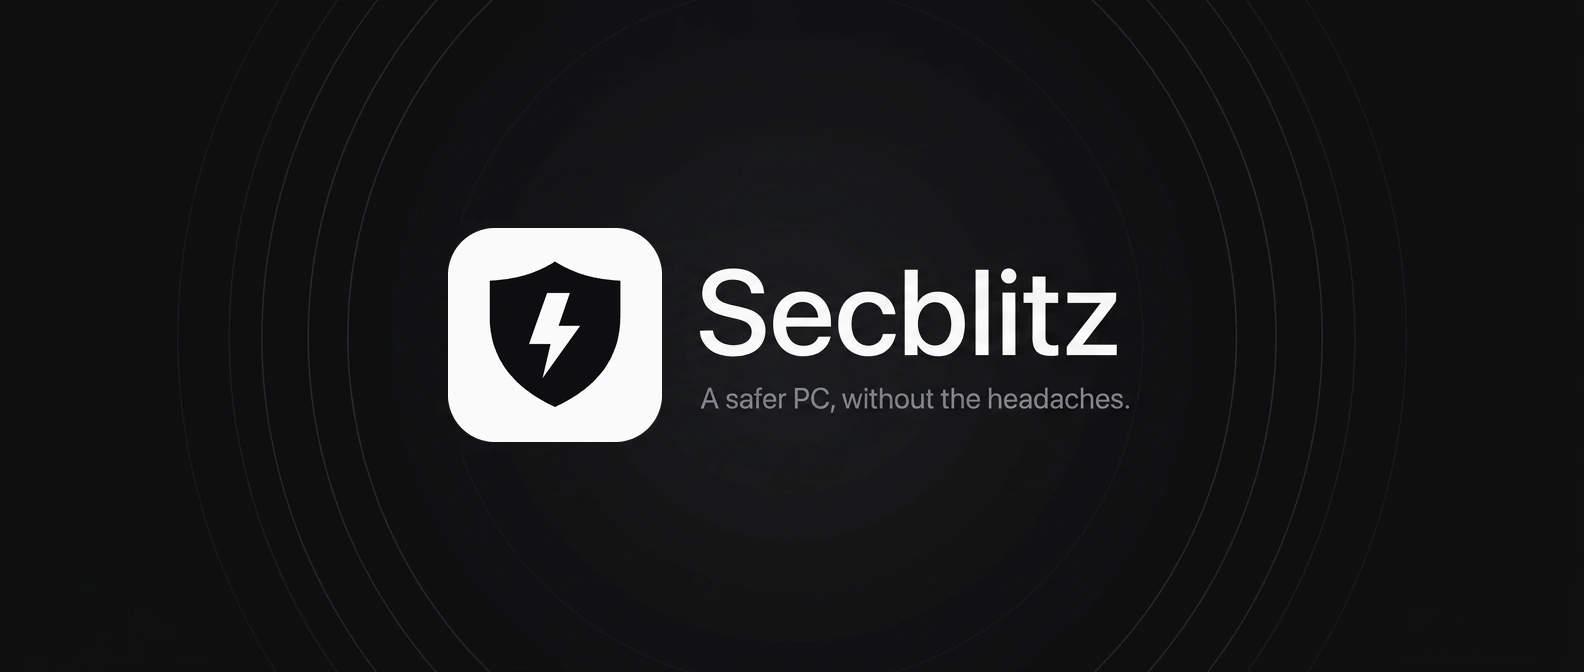
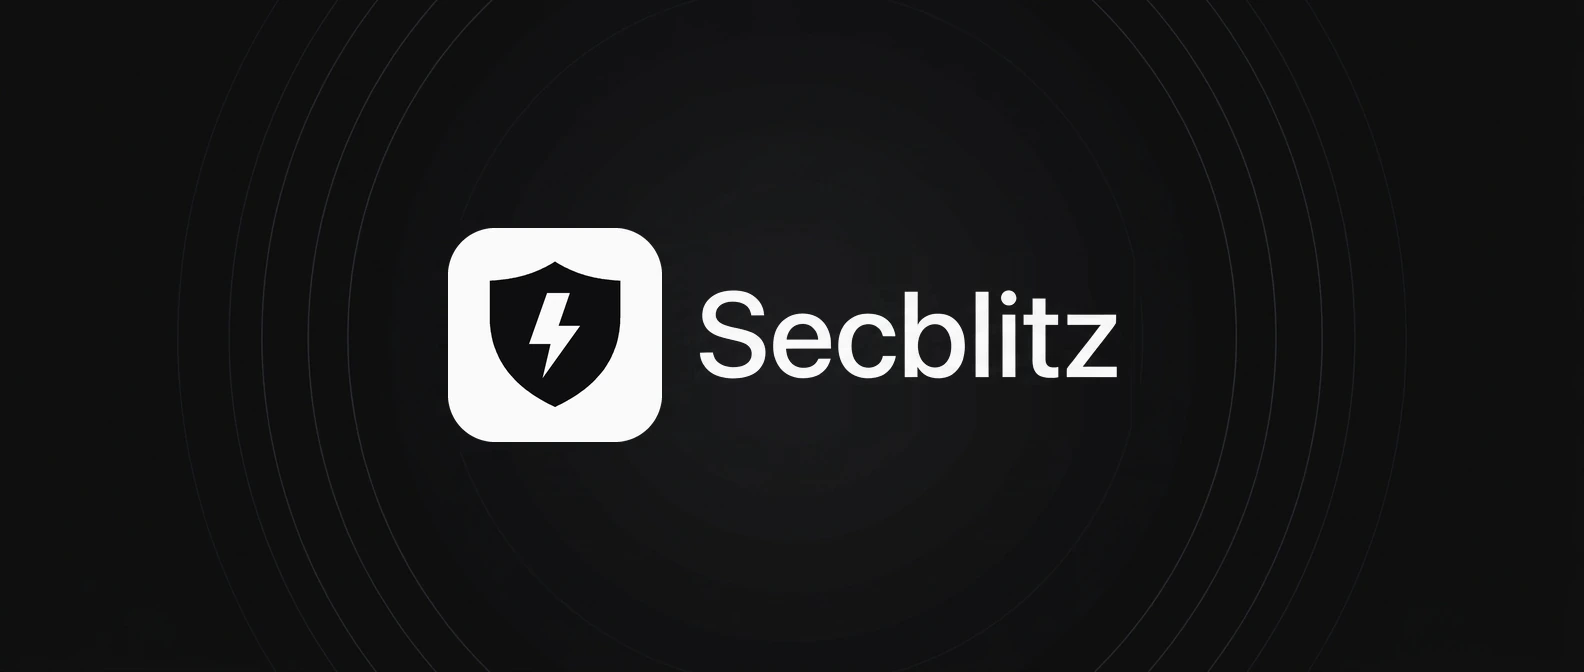
Rewrite the README and website copy to be short and direct, with security and contributing in their own files

Changed region(s): [[0.4331, 0.4062, 0.7115, 0.625]]

diff --git a/website/index.html b/website/index.html
@@ -6,13 +6,13 @@
   <meta name="theme-color" content="#F7F7F8" media="(prefers-color-scheme: light)">
   <meta name="theme-color" content="#0E0E10" media="(prefers-color-scheme: dark)">
   <meta name="color-scheme" content="light dark">
-  <meta name="description" content="Secblitz is one app that keeps your Windows PC secure, private and clean. It checks your PC, tells you what it finds and fixes only what you approve. Free, with no account.">
-  <title>Secblitz: security, privacy and cleanup for your PC</title>
+  <meta name="description" content="Secblitz checks the security, privacy and cleanup settings on your Windows PC and fixes the ones you approve. Every change can be undone. Free and open source.">
+  <title>Secblitz: security, privacy and cleanup for Windows</title>
   <link rel="canonical" href="https://secblitz.lol/">
   <meta property="og:type" content="website">
   <meta property="og:site_name" content="Secblitz">
-  <meta property="og:title" content="Secblitz: security, privacy and cleanup for your PC">
-  <meta property="og:description" content="One app that keeps your Windows PC secure, private and clean. No technical knowledge needed.">
+  <meta property="og:title" content="Secblitz: security, privacy and cleanup for Windows">
+  <meta property="og:description" content="Secblitz checks the security, privacy and cleanup settings on your Windows PC and fixes the ones you approve. Every change can be undone. Free and open source.">
   <meta property="og:url" content="https://secblitz.lol/">
   <meta property="og:image" content="https://secblitz.lol/assets/preview-92912b03eb97.webp">
   <meta property="og:image:alt" content="The Secblitz home screen">
@@ -84,8 +84,8 @@
   <main id="main">
     <section class="hero" aria-labelledby="hero-title">
       <div class="wrap hero-copy">
-        <h1 id="hero-title">A safer PC,<br>without the headaches.</h1>
-        <p class="lead">Security, privacy and cleanup for Windows, all in one app. Secblitz checks your PC, tells you what needs fixing and why, and fixes it when you say yes. No technical knowledge needed.</p>
+        <h1 id="hero-title">Security, privacy and cleanup for Windows.</h1>
+        <p class="lead">Secblitz checks your PC, shows what needs fixing and why, and fixes the items you approve. Every change can be undone.</p>
         <div class="cta">
           <a class="button" href="downloads/secblitz-0.8.2-windows-x64-setup.exe" download>
             <svg class="icon" aria-hidden="true"><use href="#i-download"/></svg>Download for Windows
@@ -104,17 +104,16 @@
 
     <section class="facts wrap" aria-label="Why people trust it">
       <ul class="fact-list">
-        <li><svg class="icon" aria-hidden="true"><use href="#i-shield-check"/></svg><span><strong>You stay in control.</strong> Secblitz never changes anything without asking you first.</span></li>
-        <li><svg class="icon" aria-hidden="true"><use href="#i-undo"/></svg><span><strong>Every change can be undone.</strong> Your original settings are saved before anything changes.</span></li>
-        <li><svg class="icon" aria-hidden="true"><use href="#i-eye-off"/></svg><span><strong>Your data stays on your PC.</strong> No account, no ads and no tracking.</span></li>
-        <li><svg class="icon" aria-hidden="true"><use href="#i-check-circle"/></svg><span><strong>Built on Windows protection.</strong> It turns on the security Windows already has, instead of replacing it.</span></li>
+        <li><svg class="icon" aria-hidden="true"><use href="#i-shield-check"/></svg><span><strong>You approve every change.</strong> Checking your PC changes nothing.</span></li>
+        <li><svg class="icon" aria-hidden="true"><use href="#i-undo"/></svg><span><strong>Every change can be undone.</strong> Your original settings are saved first.</span></li>
+        <li><svg class="icon" aria-hidden="true"><use href="#i-eye-off"/></svg><span><strong>No data collection.</strong> No account, no ads, no tracking.</span></li>
+        <li><svg class="icon" aria-hidden="true"><use href="#i-check-circle"/></svg><span><strong>Uses Windows protection.</strong> It turns on the security Windows already has.</span></li>
       </ul>
     </section>
 
     <section class="section wrap" id="how" aria-labelledby="how-title">
       <div class="section-head">
         <h2 id="how-title">How it works</h2>
-        <p>Four steps, and each one is a single click.</p>
       </div>
       <ol class="steps">
         <li>
@@ -130,12 +129,12 @@
         <li>
           <svg class="icon" aria-hidden="true"><use href="#i-wrench"/></svg>
           <h3>Fix</h3>
-          <p>Approve the fixes once. Secblitz makes the changes, then checks again to confirm they worked.</p>
+          <p>Secblitz applies the fixes you approved, then checks again to confirm each one.</p>
         </li>
         <li>
           <svg class="icon" aria-hidden="true"><use href="#i-undo"/></svg>
           <h3>Undo</h3>
-          <p>If you change your mind, History shows every change and puts your old settings back in one click.</p>
+          <p>History lists every change and restores your previous settings.</p>
         </li>
       </ol>
     </section>
@@ -143,8 +142,8 @@
     <section class="section explain" aria-labelledby="explain-title">
       <div class="wrap split">
         <div class="section-head">
-          <h2 id="explain-title">Every setting, explained.</h2>
-          <p>Each check tells you what it does, what can go wrong without it, and what changes for you once it's on, including any downside.</p>
+          <h2 id="explain-title">What each check tells you</h2>
+          <p>What it does, what can go wrong without it, and what changes once it is on, including downsides.</p>
         </div>
         <div class="demo-row" aria-label="Example of a check, opened">
           <div class="demo-head">
@@ -167,7 +166,7 @@
     <section class="section wrap" id="checks" aria-labelledby="checks-title">
       <div class="section-head">
         <h2 id="checks-title">What it covers</h2>
-        <p>More than 50 checks for security and privacy, focused on the parts of Windows that matter most for staying safe. If something is already protected, Secblitz leaves it alone.</p>
+        <p>More than 50 checks. Settings that are already on are left alone.</p>
       </div>
       <div class="check-groups">
         <div class="check-group">
@@ -198,7 +197,7 @@
         <div class="check-group">
           <svg class="icon" aria-hidden="true"><use href="#i-eye-off"/></svg>
           <h3>Privacy</h3>
-          <p>Ad tracking, activity history and optional data sharing with Microsoft. Always your choice, and never counted against your score.</p>
+          <p>Ad tracking, activity history and optional data sharing with Microsoft. These are optional and do not count against your score.</p>
         </div>
       </div>
     </section>
@@ -206,8 +205,8 @@
     <section class="section showcase" aria-labelledby="protect-title">
       <div class="wrap split split-reverse">
         <div class="section-head">
-          <h2 id="protect-title">Everything in one list.</h2>
-          <p>The Protection page sorts every check into three groups: needs your attention, your choice, and already protected. Select what to fix and Secblitz does the rest.</p>
+          <h2 id="protect-title">The Protection page</h2>
+          <p>Every check is sorted into three groups: needs attention, your choice, and already protected. Select what to fix and Secblitz applies it.</p>
         </div>
         <figure class="shot shot-small">
           <img class="shot-img only-light" src="assets/app-protection-light.webp" width="1100" height="720" loading="lazy" alt="The Protection page, listing checks that need attention with a button to fix the selection.">
@@ -218,19 +217,18 @@
 
     <section class="section wrap" id="extras" aria-labelledby="extras-title">
       <div class="section-head">
-        <h2 id="extras-title">More than a security check</h2>
-        <p>The everyday tasks that keep a PC secure and running well, in one place.</p>
+        <h2 id="extras-title">Other tools</h2>
       </div>
       <ul class="rows">
-        <li><svg class="icon" aria-hidden="true"><use href="#i-globe"/></svg><div><h3>Web protection</h3><p>Block ads, trackers and known dangerous websites in every browser and app on your PC. If a site you trust is blocked, pause it for an hour.</p></div></li>
-        <li><svg class="icon" aria-hidden="true"><use href="#i-sparkles"/></svg><div><h3>Clean up apps</h3><p>Remove apps that came with Windows and that you don't use. Secblitz keeps a copy of each one, so you can bring it back at any time, even without internet.</p></div></li>
-        <li><svg class="icon" aria-hidden="true"><use href="#i-bug"/></svg><div><h3>Virus scan and protection updates</h3><p>Run a Microsoft Defender scan and update its virus definitions without opening Windows Security.</p></div></li>
-        <li><svg class="icon" aria-hidden="true"><use href="#i-wrench"/></svg><div><h3>Repair Windows</h3><p>Find and repair damaged Windows system files with Windows' built-in tools.</p></div></li>
+        <li><svg class="icon" aria-hidden="true"><use href="#i-globe"/></svg><div><h3>Web protection</h3><p>Block ads, trackers and known dangerous websites in every browser and app on your PC. You can pause it for an hour.</p></div></li>
+        <li><svg class="icon" aria-hidden="true"><use href="#i-sparkles"/></svg><div><h3>Clean up apps</h3><p>Remove apps that came with Windows. Secblitz keeps a copy of each, so you can restore it later, even offline.</p></div></li>
+        <li><svg class="icon" aria-hidden="true"><use href="#i-bug"/></svg><div><h3>Virus scan and protection updates</h3><p>Run a Microsoft Defender scan and update its virus definitions.</p></div></li>
+        <li><svg class="icon" aria-hidden="true"><use href="#i-wrench"/></svg><div><h3>Repair Windows</h3><p>Repair damaged Windows system files with the tools built into Windows.</p></div></li>
         <li><svg class="icon" aria-hidden="true"><use href="#i-download"/></svg><div><h3>Windows updates</h3><p>Check for important security updates and install them.</p></div></li>
-        <li><svg class="icon" aria-hidden="true"><use href="#i-apps"/></svg><div><h3>PC health tips</h3><p>Choose how you use your PC (everyday use, gaming, work or extra security) and get a short list of recommendations.</p></div></li>
-        <li><svg class="icon" aria-hidden="true"><use href="#i-key"/></svg><div><h3>Passwords</h3><p>Secblitz can install Bitwarden, a free password manager that also makes strong passwords for you and keeps them safe.</p></div></li>
-        <li><svg class="icon" aria-hidden="true"><use href="#i-bell"/></svg><div><h3>Background checks</h3><p>Secblitz checks your PC in the background and lets you know if your protection gets worse.</p></div></li>
-        <li><svg class="icon" aria-hidden="true"><use href="#i-history"/></svg><div><h3>History</h3><p>See how your protection has changed over time, every change Secblitz made, and the apps you removed.</p></div></li>
+        <li><svg class="icon" aria-hidden="true"><use href="#i-apps"/></svg><div><h3>PC health tips</h3><p>Pick how you use your PC (everyday, gaming, work or extra security) and get a short list of recommendations.</p></div></li>
+        <li><svg class="icon" aria-hidden="true"><use href="#i-key"/></svg><div><h3>Passwords</h3><p>Secblitz can install Bitwarden, a free password manager.</p></div></li>
+        <li><svg class="icon" aria-hidden="true"><use href="#i-bell"/></svg><div><h3>Background checks</h3><p>Secblitz checks your PC in the background and tells you if a setting changes.</p></div></li>
+        <li><svg class="icon" aria-hidden="true"><use href="#i-history"/></svg><div><h3>History</h3><p>Every change Secblitz made and every app you removed.</p></div></li>
       </ul>
     </section>
 
@@ -241,7 +239,7 @@
       <div class="faq-list">
         <details>
           <summary>Who is Secblitz for?<svg class="icon chevron" aria-hidden="true"><use href="#i-chevron-down"/></svg></summary>
-          <p>Anyone with a Windows PC. You don't need to know anything about security or computers. Every step is explained as you go.</p>
+          <p>Anyone with a Windows 11 PC. No technical knowledge is needed.</p>
         </details>
         <details>
           <summary>Does it replace my antivirus?<svg class="icon chevron" aria-hidden="true"><use href="#i-chevron-down"/></svg></summary>
@@ -273,11 +271,11 @@
         </details>
         <details>
           <summary>Is Secblitz open source?<svg class="icon chevron" aria-hidden="true"><use href="#i-chevron-down"/></svg></summary>
-          <p>Yes. All of its code is public on <a href="https://github.com/Skeleton22121/Secblitz">GitHub</a> under the MIT license, so anyone can see exactly what Secblitz does, report a problem or suggest an improvement.</p>
+          <p>Yes. The code is on <a href="https://github.com/Skeleton22121/Secblitz">GitHub</a> under the MIT license.</p>
         </details>
         <details>
           <summary>How do I report a security problem?<svg class="icon chevron" aria-hidden="true"><use href="#i-chevron-down"/></svg></summary>
-          <p>Email <a href="mailto:support@secblitz.lol">support@secblitz.lol</a>. Please describe what you found and which version of Secblitz and Windows you use. We reply within a week and fix the problem before sharing any details publicly.</p>
+          <p>Email <a href="mailto:support@secblitz.lol">support@secblitz.lol</a>. Include what you found and your Secblitz and Windows versions. We reply within a week and fix the problem before sharing details publicly.</p>
         </details>
         <details>
           <summary>Which languages and Windows versions work?<svg class="icon chevron" aria-hidden="true"><use href="#i-chevron-down"/></svg></summary>
@@ -289,8 +287,8 @@
     <section class="download" id="download" aria-labelledby="download-title">
       <div class="wrap download-inner">
         <svg class="download-mark" aria-hidden="true"><use href="#i-brand"/></svg>
-        <h2 id="download-title">Check your PC for free.</h2>
-        <p>The check takes about a minute and doesn't change anything.</p>
+        <h2 id="download-title">Download Secblitz</h2>
+        <p>Free. The first check takes about a minute and changes nothing.</p>
         <a class="button" href="downloads/secblitz-0.8.2-windows-x64-setup.exe" download>
           <svg class="icon" aria-hidden="true"><use href="#i-download"/></svg>Download for Windows
         </a>

diff --git a/README.md b/README.md
@@ -2,49 +2,46 @@
 
 <picture>
   <source media="(prefers-color-scheme: dark)" srcset="docs/banner-dark.webp">
-  <img src="docs/banner-light.webp" width="900" alt="Secblitz. A safer PC, without the headaches.">
+  <img src="docs/banner-light.webp" width="900" alt="Secblitz">
 </picture>
 
-Security, privacy and cleanup for Windows, all in one app.
+Secblitz checks the security, privacy and cleanup settings on a Windows PC and fixes the ones you approve. Every change can be undone.
 
-Secblitz checks your Windows PC, tells you what needs fixing and why, and fixes it when you say yes. You don't need to know anything about computers.
-
-[**Download for Windows**](https://secblitz.lol/downloads/secblitz-0.8.2-windows-x64-setup.exe) · [Website](https://secblitz.lol) · [Security](#security) · [Contributing](#contributing)
+[**Download for Windows**](https://secblitz.lol/downloads/secblitz-0.8.2-windows-x64-setup.exe) · [Website](https://secblitz.lol) · [Security](SECURITY.md) · [Contributing](CONTRIBUTING.md)
 
 ![Version 0.8.2](https://img.shields.io/badge/version-0.8.2-18181B) ![Windows 11, 64-bit](https://img.shields.io/badge/Windows%2011-64--bit-18181B) ![MIT license](https://img.shields.io/badge/license-MIT-18181B)
 
 <picture>
   <source media="(prefers-color-scheme: dark)" srcset="website/assets/app-home-dark.webp">
-  <img src="website/assets/app-home-light.webp" width="900" alt="The Secblitz home screen: a score ring showing how many protections are on, and a short list of what needs attention.">
+  <img src="website/assets/app-home-light.webp" width="900" alt="The Secblitz home screen: how many protections are on, and what needs attention.">
 </picture>
 
 </div>
 
-## Why Secblitz
+## How it works
 
-Windows has strong security and privacy settings, but many are turned off by default and spread across menus written for IT professionals. Secblitz brings security, privacy and PC upkeep together in one app made for people without technical knowledge:
+1. **Check.** Secblitz reads your antivirus, firewall, sign-in, update and privacy settings. It takes about a minute and changes nothing.
+2. **Choose.** Each item says what it does, what can go wrong without it, and what changes once it is on.
+3. **Fix.** Secblitz applies the fixes you approved, then checks again to confirm each one.
+4. **Undo.** Your original settings are saved first. History puts them back.
 
-1. **Check.** One click looks at your antivirus, firewall, sign-in, updates and more. About a minute, and nothing is changed.
-2. **Choose.** Every check says what it does, what could go wrong without it and what you'll notice once it's on, downsides included.
-3. **Fix.** Say yes once. Secblitz applies your choices, then checks again to make sure each one really took.
-4. **Undo.** Your original settings are saved first. History puts them back with one click.
+## Features
 
-## What's inside
+- **Over 50 checks** for virus protection, network, sign-in, updates, startup, disk and privacy. Settings that are already on are left alone.
+- **Clean up apps.** Remove apps that came with Windows. Secblitz keeps a copy of each, so you can restore it later, even offline.
+- **Web protection.** Optional blocking of ads, trackers and dangerous websites.
+- **Tools.** Microsoft Defender scans and updates, Windows repair, security updates and an optional Bitwarden install.
+- **Background checks** from the notification area, which tell you when a setting changes.
+- **History** of every change and every removed app.
+- **Six languages:** English, Spanish, French, German, Portuguese and Italian. Light and dark mode.
 
-- **More than 50 checks** across virus protection, network and Wi-Fi, sign-in and accounts, updates, startup and disk, and privacy. Protection you already have is recognized, so nothing changes for the sake of it.
-- **Clean up apps.** Remove the apps Windows came with that you never use. Secblitz keeps a copy of each one, so you can bring it back any time, even without internet.
-- **Tools.** Microsoft Defender scans and protection updates, Windows repair, security updates, PC health tips and an optional Bitwarden install. Bitwarden is a free password manager that also makes strong passwords for you.
-- **Background checks.** Secblitz can keep an eye on your PC from the notification area and tell you if something changes.
-- **History.** How your protection changed over time, every change made, and every app removed.
-- **Six languages** (English, Spanish, French, German, Portuguese, Italian), light and dark mode.
-
-Secblitz is not an antivirus. It makes sure the protection Windows already gives you is switched on and set up well, and it leaves third-party antivirus settings and PCs managed by work or school alone.
+Secblitz is not an antivirus. It turns on and configures the protection built into Windows, and it leaves third-party antivirus and PCs managed by work or school alone.
 
 ## Install
 
-Download the [installer](https://secblitz.lol/downloads/secblitz-0.8.2-windows-x64-setup.exe) (8.6 MB) and run it. Secblitz asks for administrator permission when it opens, because reading and changing security settings needs it.
+Download the [installer](https://secblitz.lol/downloads/secblitz-0.8.2-windows-x64-setup.exe) (8.6 MB) and run it. Secblitz asks for administrator permission because it reads and changes system settings.
 
-The installer is not code-signed yet, so Windows may say the publisher is unknown. Choose **More info**, then **Run anyway**. To confirm you have the exact published file, compare its SHA-256 with the one on the [download page](https://secblitz.lol/#download):
+The installer is not code-signed yet, so Windows may show an unknown publisher warning. Choose **More info**, then **Run anyway**. To check the file, compare its SHA-256 with the one on the [download page](https://secblitz.lol/#download):
 
 ```powershell
 Get-FileHash .\secblitz-0.8.2-windows-x64-setup.exe -Algorithm SHA256
@@ -52,51 +49,14 @@ Get-FileHash .\secblitz-0.8.2-windows-x64-setup.exe -Algorithm SHA256
 
 Tested on Windows 11, 64-bit. Windows 10 is not tested.
 
-## Security
+## Privacy
 
-A tool that changes security settings has to be held to a higher bar than the settings it changes. What Secblitz promises:
+No account, no ads, no telemetry. Secblitz goes online to update itself (if updates are on), for actions you start, and to download block lists if web protection is on. See the [privacy policy](https://secblitz.lol/privacy.html).
 
-- **Nothing changes without a yes.** A check is read-only. Fixes run only for the exact list you approved, and settings that are a matter of taste are never pre-selected.
-- **A fixed menu, not a remote control.** Secblitz can only touch the settings compiled into it. It never runs commands, scripts or downloads chosen at run time, and anything passed between the elevated window and your normal account is a fixed request code, never a path or a command.
-- **Undo you can trust.** Original values are written to a local journal before every change, and History restores them newest first. It does not undo Windows updates, app installs or changes made outside Secblitz.
-- **Signed updates.** Updates are checked against an Ed25519 public key pinned in the app, plus the installer's exact size and hash. Older releases are refused, so no one can push you back to a version with known problems. Updates never close the app while you use it and never restart your PC.
-- **Your data stays on your PC.** No account, no ads, no telemetry. Secblitz goes online only to update itself, if you leave updates on, and for things you ask for. Web protection, if you turn it on, also downloads block lists. See the [privacy policy](https://secblitz.lol/privacy.html).
+## Security and contributing
 
-Known limits: the executables are not Authenticode-signed, so trust in the first download rests on HTTPS and the published checksum. Windows 10, Home and Pro editions and many hardware setups are not yet tested.
-
-### Reporting a vulnerability
-
-Please **don't open a public issue** for security problems. Email **[support@secblitz.lol](mailto:support@secblitz.lol)**, or use GitHub's private reporting: **Security → Report a vulnerability** on this repository. Include the Secblitz version, your Windows version and steps to reproduce. We aim to reply within a week, and to ship a fix or give a clear answer before anything is made public. Reports about the updater, the elevated process, undo, or anything that could let another user or program change your settings are especially welcome.
-
-Deeper reading: [security model](docs/security-model.md), [update contract](docs/update-contract.md), [security review](docs/SECURITY-REVIEW.md). These were written for earlier releases; the guarantees above are the current ones.
-
-## Contributing
-
-Bug reports, translations and fixes are all welcome. For anything bigger than a small fix, open an issue first so we can agree on the approach.
-
-**Build and test**
-
-```sh
-# Portable logic and tests, on any OS
-cargo test --locked --all-targets
-
-# The Windows app (from Linux, with a MinGW-w64 toolchain)
-cargo build --locked --release --target x86_64-pc-windows-gnu
-cargo clippy --locked --target x86_64-pc-windows-gnu --all-targets -- -D warnings
-```
-
-On Windows, `scripts/build-release.ps1` runs the same tests, lint and build with MSVC and compiles the installer. CI runs it on every push, along with a RustSec audit of `Cargo.lock`. Releases are built from source by GitHub Actions: see [docs/RELEASING.md](docs/RELEASING.md) and the [changelog](CHANGELOG.md).
-
-**House rules**
-
-- **No jargon.** The app is for people who don't know what a firewall profile is. No acronyms, no fear, no em dashes in user-facing text.
-- **Every check explains itself.** A new check needs its what it is / if it's off / if you turn it on text in [`src/explain/`](src/explain/).
-- **Every string in six languages.** Add translations to [`src/i18n.rs`](src/i18n.rs), or drop them in [`i18n-pending/`](i18n-pending/) if you only speak some of them.
-- **Reversible or read-only.** A change Secblitz makes must record what it replaced and be undoable, or be clearly labeled as one-way before the user says yes.
-- **Tests with the change.** Run the tests and clippy before you open a pull request, and say in the description what you tested on a real Windows PC.
-
-Maintainers and coding agents: the full working rules are in [AGENTS.md](AGENTS.md).
+To report a security problem, see [SECURITY.md](SECURITY.md). To build Secblitz or send a change, see [CONTRIBUTING.md](CONTRIBUTING.md).
 
 ## License
 
-[MIT](LICENSE). Secblitz is free and stays free. Fonts, icons, libraries and block lists from others are credited in [THIRD-PARTY-NOTICES.md](THIRD-PARTY-NOTICES.md).
+[MIT](LICENSE). Fonts, icons, libraries and block lists from others are credited in [THIRD-PARTY-NOTICES.md](THIRD-PARTY-NOTICES.md).

diff --git a/SECURITY.md b/SECURITY.md
@@ -1,6 +1,8 @@
-# Security policy
+# Security
 
-Please report security problems privately, never in a public issue:
+## Reporting a vulnerability
+
+Report security problems privately, never in a public issue:
 
 - Email **support@secblitz.lol**, or
 - use GitHub's private reporting: **Security → Report a vulnerability**.
@@ -11,3 +13,29 @@ anything is made public. Only the latest release receives fixes.
 
 Reports about the updater, the elevated helper, undo, or anything that could
 let another user or program change your settings are especially welcome.
+
+## How Secblitz is built to be safe
+
+- **Nothing changes without approval.** Checks are read-only. Fixes run only for
+  the items the user approved, and optional settings are never pre-selected.
+- **A fixed set of actions.** Secblitz can only change the settings built into
+  it. It never runs commands, scripts or downloads chosen at run time. The
+  elevated helper accepts fixed request codes only, never paths or commands.
+- **Undo.** Original values are written to a local journal before each change,
+  and History restores them newest first. It does not undo Windows updates, app
+  installs or changes made outside Secblitz.
+- **Signed updates.** An update must match the Ed25519 public key pinned in the
+  app and the installer's exact size and hash. Older versions are refused.
+- **No data collection.** No account, no ads, no telemetry. See the
+  [privacy policy](https://secblitz.lol/privacy.html).
+
+## Known limits
+
+The executables are not Authenticode-signed yet, so trust in the first download
+rests on HTTPS and the published checksum. Windows 10, Home and Pro editions and
+many hardware setups are not yet tested.
+
+More detail: [security model](docs/security-model.md),
+[update contract](docs/update-contract.md),
+[security review](docs/SECURITY-REVIEW.md). These were written for earlier
+releases; this page is current.

diff --git a/CONTRIBUTING.md b/CONTRIBUTING.md
@@ -1,0 +1,33 @@
+# Contributing
+
+Bug reports, translations and fixes are welcome. For larger changes, open an
+issue first. Report security problems privately, as described in
+[SECURITY.md](SECURITY.md).
+
+## Build and test
+
+```sh
+# Portable logic and tests, on any OS
+cargo test --locked --all-targets
+
+# The Windows app (from Linux, with a MinGW-w64 toolchain)
+cargo build --locked --release --target x86_64-pc-windows-gnu
+cargo clippy --locked --target x86_64-pc-windows-gnu --all-targets -- -D warnings
+```
+
+On Windows, `scripts/build-release.ps1` runs the tests, lint and MSVC build and
+compiles the installer. CI runs it on every push, with a RustSec audit of
+`Cargo.lock`. Releases are built by GitHub Actions: see
+[docs/RELEASING.md](docs/RELEASING.md) and the [changelog](CHANGELOG.md).
+
+## Rules
+
+- **No jargon** in anything a user reads. No acronyms, no fear, no em dashes.
+- **Every check explains itself** in [`src/explain/`](src/explain/).
+- **Every string in six languages** in [`src/i18n.rs`](src/i18n.rs), or in
+  [`i18n-pending/`](i18n-pending/) if you can't translate it.
+- **Every change is undoable,** or says it is one-way before the user agrees.
+- **Test on a real Windows PC** and say in the pull request what you tried.
+
+Maintainers and coding agents: the full working rules are in
+[AGENTS.md](AGENTS.md).

diff --git a/AGENTS.md b/AGENTS.md
@@ -1,7 +1,7 @@
 # Working on Secblitz
 
 Instructions for maintainers and coding agents. Read this before changing
-anything. The README has the short version for first-time contributors.
+anything. CONTRIBUTING.md has the short version for first-time contributors.
 
 ## What Secblitz is
 
@@ -115,7 +115,7 @@ one per branch or worktree, and delete worktree build folders when done.
   generic "run this command as admin" path.
 - Do not weaken the update checks: signature, pinned key, version floor,
   expiry and hash all stay mandatory.
-- Report vulnerabilities privately (see the Security section of the README).
+- Report vulnerabilities privately (see `SECURITY.md`).
 
 ## Versions and releases
 
